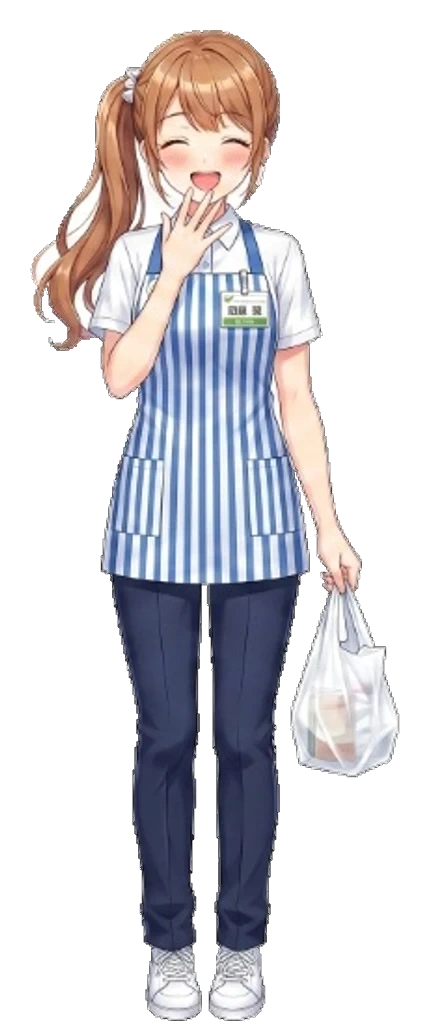
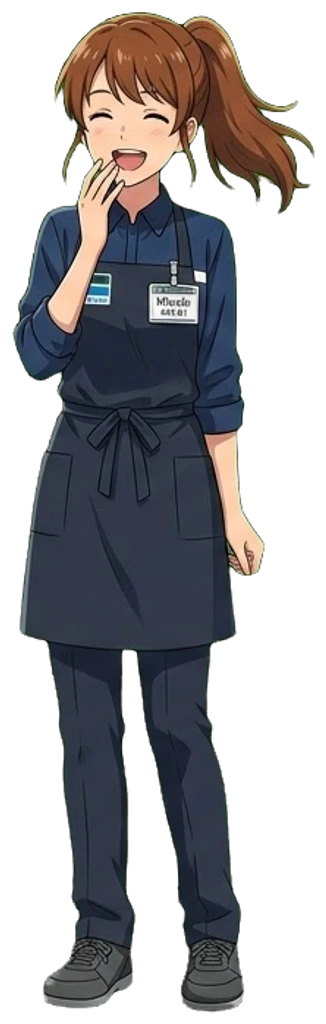
Replace clerk sprites with clean green-screen cutouts; add chroma-key script
The old clerk sprites were cut out from a white background, and the clerk
wears a white shirt and white shoes - so every pass of the white-keying
scripts ate another ring off her clothing. The result had no outline on
the white garments and a white haze around the ponytail, very visible
against the dark shelving in the store. There were no pristine originals
kept, so the lost linework was not recoverable; the art was regenerated
on a green screen instead.

scripts/key-greenscreen.mjs: chroma key for sprite art.
- Keys on green-ness (G - max(R,B)), which separates cleanly from skin and
  the dark navy uniform without hand-tuned thresholds.
- Only removes green connected to the canvas edge, via flood fill from the
  borders, so green on the character (her name tag) survives.
- Despills: edge pixels tinted by the screen get G pulled back to
  max(R,B), otherwise the cutout carries a fluorescent green rim.
- Crops to the alpha bounding box and normalises height, since the
  generator returns wildly different framings (768x1408 and 1408x768 both
  showed up in this batch).

Result on the five new sprites: 0-4 whitish edge pixels and 0 opaque white
edge pixels, against 74 (and 15940 on the worst of the old set).

Also in this batch:
- New clerk_misaki_bag pose, wired into both checkout paths where she
  hands the bag over.
- The clerk is female (speaker label is 店员小姐) but two narration lines
  called her 他/He. Fixed to 她/She.
[…]

diff --git a/story/prologueData.ts b/story/prologueData.ts
@@ -1544,13 +1544,14 @@ export const PROLOGUE_SCRIPT: StoryNode[] = [
             then: [
               {
                 type: 'narration',
+                characterImage: '/images/characters/clerk_misaki_bag.webp',
                 zh: '你说得很慢，但一个音都没有含糊。店员点点头，把筷子放进袋子，动作一如往常。',
                 en: 'You speak slowly, but you do not slur a single syllable. The clerk nods, drops the chopsticks in the bag, entirely unremarkable about it.'
               },
               {
                 type: 'narration',
-                zh: '——正因为一如往常，你才更高兴。他没有把你当成一个需要特殊照顾的外国人。',
-                en: 'And it is precisely because it was unremarkable that you are pleased. He did not treat you as a foreigner in need of handling.'
+                zh: '——正因为一如往常，你才更高兴。她没有把你当成一个需要特殊照顾的外国人。',
+                en: 'And it is precisely because it was unremarkable that you are pleased. She did not treat you as a foreigner in need of handling.'
               }
             ]
           },
@@ -1564,13 +1565,14 @@ export const PROLOGUE_SCRIPT: StoryNode[] = [
             then: [
               {
                 type: 'narration',
+                characterImage: '/images/characters/clerk_misaki_bag.webp',
                 zh: '你点了点头，又比了个「一」。店员立刻会意，动作麻利地装好袋，还多塞了一张湿纸巾。',
                 en: 'You nod, then hold up one finger. The clerk gets it instantly, bags everything efficiently, and slips in an extra wet wipe.'
               },
               {
                 type: 'narration',
-                zh: '他一句多余的话都没说，态度也没有半点变化。你反倒有点懊恼——那句话你明明会说的。',
-                en: 'He says nothing extra and his manner does not change one degree. If anything that makes it worse. You knew that sentence. You could have said it.'
+                zh: '她一句多余的话都没说，态度也没有半点变化。你反倒有点懊恼——那句话你明明会说的。',
+                en: 'She says nothing extra and her manner does not change one degree. If anything that makes it worse. You knew that sentence. You could have said it.'
               }
             ]
           }

diff --git a/story/story_outline.md b/story/story_outline.md
@@ -1,0 +1,198 @@
+# 剧情大纲：第一天 + 每人三段专属剧情
+
+> 目标：把「第 0 章序章」之后的内容接上，并给 8 位角色各安排 3 段手写专属剧情。
+> 本文是设计文档，不是剧本正文。正文写在 `story/day1Data.ts` 与 `story/levelStories/*.ts`。
+
+---
+
+## 0. 动笔前必须先定的三件事
+
+写之前不定，写到一半会推倒重来。
+
+### 0-1 ⚠ 序章已经把第一章的开场废掉了
+
+`chapter1_script.md` 现在的设定是：**光**在国际交流室初遇、**明日香**在走廊相撞初遇。
+
+但序章（4/10 晚）已经改了前提：
+
+| 角色 | 序章可能的状态 | 第一天开场必须变成 |
+|---|---|---|
+| 光 | 港边正式相遇（互报名字）／ 擦肩而过 ／ 完全没见 | 「又是你！」重逢 ／「……あれ、どこかで」 ／ 原版初遇 |
+| 铃 | 北野巷相遇（互报名字）／ 擦肩 ／ 没见 | 同上 |
+| 真希 | 商店街相遇（只给了你名字）／ 擦肩 ／ 没见 | 同上 |
+| 深雪 | **必遇**（便利店 + 坡道），三档态度 | 早上走廊必然照面 |
+| 明日香 | 序章不出场 | 保持原版初遇不变 ✅ |
+
+**做法**：第一天的这几场用 `branch` 节点按 flag 分叉，和 `resolvePrologueEncounter` 在 AI 侧做的事对齐。已有的 flag 直接可用：
+`prologue_met_*` / `prologue_glimpsed_*` / `prologue_*_passed` / `prologue_greeted_miyuki` 等。
+
+> 一周目玩家最多正式认识 1 人 + 擦肩 1 人，所以三条分支里「原版初遇」仍是最常走到的，不会白写。
+
+### 0-2 ⚠ 奈绪的设定和主角身份冲突
+
+- 主角：**海外来日交换留学生**，4/10 第一次踏上日本（序章原话「来到这个国家的第一天」）
+- 奈绪：`initialFamiliarity: 215`，「住在隔壁一起长大的青梅竹马」，知道你小三那件糗事
+
+两者不能同时成立。三个解法：
+
+| 方案 | 内容 | 代价 |
+|---|---|---|
+| **A（推荐）** | 奈绪是**在你老家隔壁长大的日本人**，父母外派，两家做了十年邻居；她今年先一步回日本升学，你随后来交换 | 一句话补完，主角"第一次来日本"「日语只有 N3」全部保住 |
+| B | 主角是**归国子女**，小时候在神户住过，外公的手账就是那时候的 | 和「第一次开口说日语」矛盾，序章要大改 |
+| C | 把奈绪降级成普通同班同学 | 浪费掉一个完成度很高的角色定位 |
+
+方案 A 还有额外好处：奈绪成为**唯一一个见过"在母语环境里的你"的人**，这正好是她第 2 段专属剧情的核心。
+
+### 0-3 CG 怎么配
+
+现在 `CHARACTER_CGS` 每人 1 张，`unlockAffection: 80`（好感 Lv.2 就解锁）。三段剧情要么：
+
+- **方案甲（推荐，省图）**：只有第 3 段配 CG，把现有 8 张的解锁点移到第 3 段。前两段只用现有立绘 + 现有背景 → **零新增美术**
+- 方案乙：三段各一张 CG → 需要新画 16 张
+
+---
+
+## 1. 总体架构：每人三段挂在哪
+
+`constants.ts` 里已经留好了钩子，现在是空的：
+
+```ts
+export const LEVEL_STORIES: Partial<Record<CharacterId, Partial<Record<number, string>>>> = {};
+```
+
+`App.tsx:549` 也留了 TODO：升级时优先播手写剧本，没有才让 AI 即兴。**三段专属剧情就填在这里。**
+
+### 三段的位置与职能
+
+| # | 触发 | 阈值 | 职能 | 一句话 |
+|---|---|---|---|---|
+| **① 靠近** | 親密度 Lv.3「朋友」 | 90 | 破人设 | 第一次**特意**两个人待在一起，你看见她不表演自己角色时的样子 |
+| **② 裂缝** | 好感度 Lv.3「心动」 | 140 | 露内核 | 她的表层性格是用来盖住什么的——那个东西露出来了。**玩家选择在这一段权重最大** |
+| **③ 回答** | 好感度 Lv.5「挚爱」 | 220 | 收束 + CG | 对①②埋的东西给出回答 |
+
+设计意图：**①走親密度、②③走好感度**。这样「只想交朋友」的玩家也能拿到①，不会被恋爱线挡住；而②③是恋爱线的报酬。和现有双轴系统天然契合（親密度是好感度的天花板）。
+
+### 8 × 3 一览（背景全部用现有素材，无需新生图）
+
+#### 光 Hikari — 全肯定型留学生伙伴
+| 段 | 标题 | 场景（现有 bg） | 内容 |
+|---|---|---|---|
+| ① | 同じ船 | `kobe_harbor_dusk` | 她带你去港边，说这是她刚来那一周每天来的地方。序章遇过她的话，就是"回到那根栏杆" |
+| ② | 一週間の差 | `kobe_mosaic_ferris_night` | 她的"绝对没问题"是硬撑出来的。她也想家，只是比你早一周学会了不说 |
+| ③ | 二年目の海 | `kobe_harbor_dusk` + CG | 交换期结束在即，留下还是回去 |
+
+#### 明日香 Asuka — 傲娇学級委員長
+| 段 | 标题 | 场景 | 内容 |
+|---|---|---|---|
+| ① | 委員長の放課後 | `kaisei_library_sunlight` | 被抓去一起整理讲义，你看见她笔记本上密密麻麻全是**给你标的注音** |
+| ② | 一番じゃないと | `school_courtyard_rain` | 她考砸了。"委员长"是她给自己上的枷锁，不是头衔 |
+| ③ | 放学后的余晖 | 空教室 + `cg_asuka` | CG 与台词已存在，直接接上 |
+
+#### 铃 Rei — 三无理性学霸（天文/科学部）
+| 段 | 标题 | 场景 | 内容 |
+|---|---|---|---|
+| ① | 一九〇四年 | `former_settlement_15_salon` | 接序章异人馆那条线，她带你看她真正在做的建筑调查 |
+| ② | 観測できない値 | `school_roof` / `starry_sky` | 她能精确解释一切，唯独用元语言解释自己的心跳时失败了 |
+| ③ | 星図の余白 | `rokko_night_view` + CG | |
+
+#### 稻荷 Inari — 千年狐神
+| 段 | 标题 | 场景 | 内容 |
+|---|---|---|---|
+| ① | 千年の暇つぶし | `ikuta_shrine_forest` | 她第一次让你看见她不是人 |
+| ② | 面の下 | `festival_night` | 千年里她送走过太多人。她怕的不是你不喜欢她，是你也会走 |
+| ③ | 人の時間 | `ikuta_shrine_main` + CG | |
+
+#### 奈绪 Nao — 青梅竹马（初始親密度 215，已"无话不谈"）
+> 特例：她的親密度开局就满，所以**三段全走好感度**（Lv.2 / Lv.3 / Lv.5）
+
+| 段 | 标题 | 场景 | 内容 |
+|---|---|---|---|
+| ① | 幼馴染の距離 | `neighborhood` / `umikaze_room_201` | 她发现你在这边交了她不认识的朋友 |
+| ② | 知らない顔 | `kaisei_cafeteria` | 她第一次意识到"有她不知道的你"——她只见过母语环境里的你（呼应 0-2 方案 A） |
+| ③ | 十年分の距離 | `school_gate_sakura` + CG | |
+
+#### 空 Sora — 田径部王牌
+| 段 | 标题 | 场景 | 内容 |
+|---|---|---|---|
+| ① | 交換条件 | `gym` | 你教她日语文法，她教你跑步。等价交换 |
+| ② | 肩の話 | `koshien_stadium_sunset` | 那个还在痛的肩膀（她的 seedMemory 里已经埋了） |
+| ③ | ゴールの向こう | `koshien_stadium_sunset` + CG | |
+
+#### 深雪 Miyuki — 隔壁独居大姐姐
+| 段 | 标题 | 场景 | 内容 |
+|---|---|---|---|
+| ① | 二〇二号室の夕飯 | `kitchen` | "做多了" |
+| ② | お姉さんの役 | `umikaze_balcony_harbor` | "姐姐"是她的防具。她的 stages Lv.4 已明写"这个角色开始硌人" |
+| ③ | 名前で呼んで | `umikaze_balcony_harbor` + CG | |
+
+#### 真纪 Maki — 关西腔雌小鬼后辈
+| 段 | 标题 | 场景 | 内容 |
+|---|---|---|---|
+| ① | センパイ認定 | `sannomiya_pia_kobe_arcade` | 她开始叫你センパイ了（之前只是"喂"） |
+| ② | 待ち伏せの理由 | `kobe_jazz_livehouse` | 她每天在同一个地方等你——她的 seedMemory 里写着"绝对不会承认" |
+| ③ | 一回だけ本音 | `sannomiya_pia_kobe_arcade` + CG | |
+
+---
+
+## 2. 第一天（4 月 11 日 · 火 · 晴）大纲
+
+序章 = 4/10 抵达当晚。第一天 = 开学。自由游玩从 4/12 下午开始（`INITIAL_CALENDAR_STATE` 已经是 4/12）。
+**所以第一天和序章一样，是一段完整的脚本章节，不是自由对话。**
+
+| # | 场景 | 背景 | 内容 | 分叉 |
+|---|---|---|---|---|
+| 1 | 早晨 · 201 室 | `umikaze_room_201` | 闹钟、制服、把外公的手账塞进书包 | — |
+| 2 | 走廊 · 202 室门口 | `umikaze_balcony_harbor` | **深雪**。按序章三档态度分叉（搭话过／只鞠躬／别过脸） | `branch` × 3 |
+| 3 | 北野坡道 | `kitano_sakura_slope` | 落樱、迟到危机（沿用现草稿，写得很好） | 选择：捡花瓣夹进手账／直接冲 |
+| 4 | 校门 | `school_gate_sakura` | 立牌语法解读「〜までに済ませてください」（沿用现草稿） | — |
+| 5 | 国际交流室 | `school_hallway`/新 | **光**。三档分叉（已认识／擦肩／初遇） | `branch` × 3 |
+| 6 | 二年B班走廊 | `school_hallway` | **明日香**相撞（沿用现草稿，序章不受影响） | — |
+| 7 | 教室 · 自我介绍 | `school` | 用日语做自我介绍 | **回收序章 flag**：关西腔／标准语／手势 三选一，对应 `prologue_checkout_*` |
+| 8 | 午休 | `kaisei_cafeteria` | 光 + 明日香同桌，第一次三人对话 | — |
+| 9 | **放学后（主分叉）** | 三选一 | 决定**谁的第①段先解锁** | 田径部`gym`→空／图书馆`kaisei_library_sunlight`→铃／商店街`sannomiya_pia_kobe_arcade`→真希 |
+| 10 | 傍晚 | `ikuta_shrine_gate` 或 `neighborhood` | **稻荷**（走神社路线）或 **奈绪**（走回家路线） | 承 9 的选择 |
+| 11 | 夜 · 201 室 | `umikaze_room_201` | 在手账上写下第一天。结算屏 → 进入自由游玩 | — |
+
+**结构上刻意和序章同构**：固定主线 + 一个决定性分叉 + 结算屏。序章的 `PrologueResultScreen` 可以泛化成 `ChapterResultScreen` 复用。
+
+---
+
+## 3. 怎么写（格式建议）
+
+**把 `chapter1_script.md` 从散文改写成数据。** 现在它是 Markdown 散文，而序章是 `StoryNode[]`。改成数据格式，下面这些**全部白拿**，一行不用写：
+
+逐字打字机 · 选项 + 属性门槛 · 生词自动进单词本 · 属性/关系增减 · CG 解锁 · 便利店式购物 · `branch` 条件插播 · `random` 随机加演 · 存档续玩 · 回想 backlog · 自动播放 / 快进 / 跳过
+
+建议目录：
+
+```
+story/
+  day1Data.ts              第一天正文（StoryNode[]）
+  day1Meta.ts              版本号、flag 文案（仿 prologueMeta.ts）
+  levelStories/
+    hikari.ts  asuka.ts  rei.ts  inari.ts
+    nao.ts     sora.ts   miyuki.ts  maki.ts
+```
+
+每段专属剧情建议 **25–40 个节点**（序章一条傍晚路线约 30 个），含 1 个关键选择。
+
+`chapter1_script.md` 保留为**写作草稿**，`.ts` 是最终上线版——就像 `prologue_script.md` 和 `prologueData.ts` 现在的关系。
+
+### 每场自检清单
+- [ ] 有没有至少 1 个 `words`（这是日语学习游戏，生词是主收益）
+- [ ] 属性增减的 `reason` 写清楚了没有（会显示在 StatGainToast 上）
+- [ ] 关系变动挂在 `relations` 上，别忘了 `char`
+- [ ] 立绘 `characterImage` 只在需要换人/退场时写；不写=保持不变
+- [ ] 换场景要 `scene` 节点，不然背景会和台词对不上
+
+---
+
+## 4. 要你拍板的
+
+1. **奈绪的设定**走 0-2 的 A / B / C 哪个？（推荐 A）
+2. **CG** 走方案甲（只有第③段配，零新增美术）还是方案乙（16 张新图）？
+3. **三段的触发点**（親密 Lv.3 / 好感 Lv.3 / 好感 Lv.5）确认？
+4. **第一天**是否按第 3 节改成数据格式？还是先按散文把剧本写完再转？
+5. 第一天 Scene 9 的三条放学后路线，先写哪一条？
+
+定完 1–4，我就可以从第一天 Scene 1 开始落地了。
